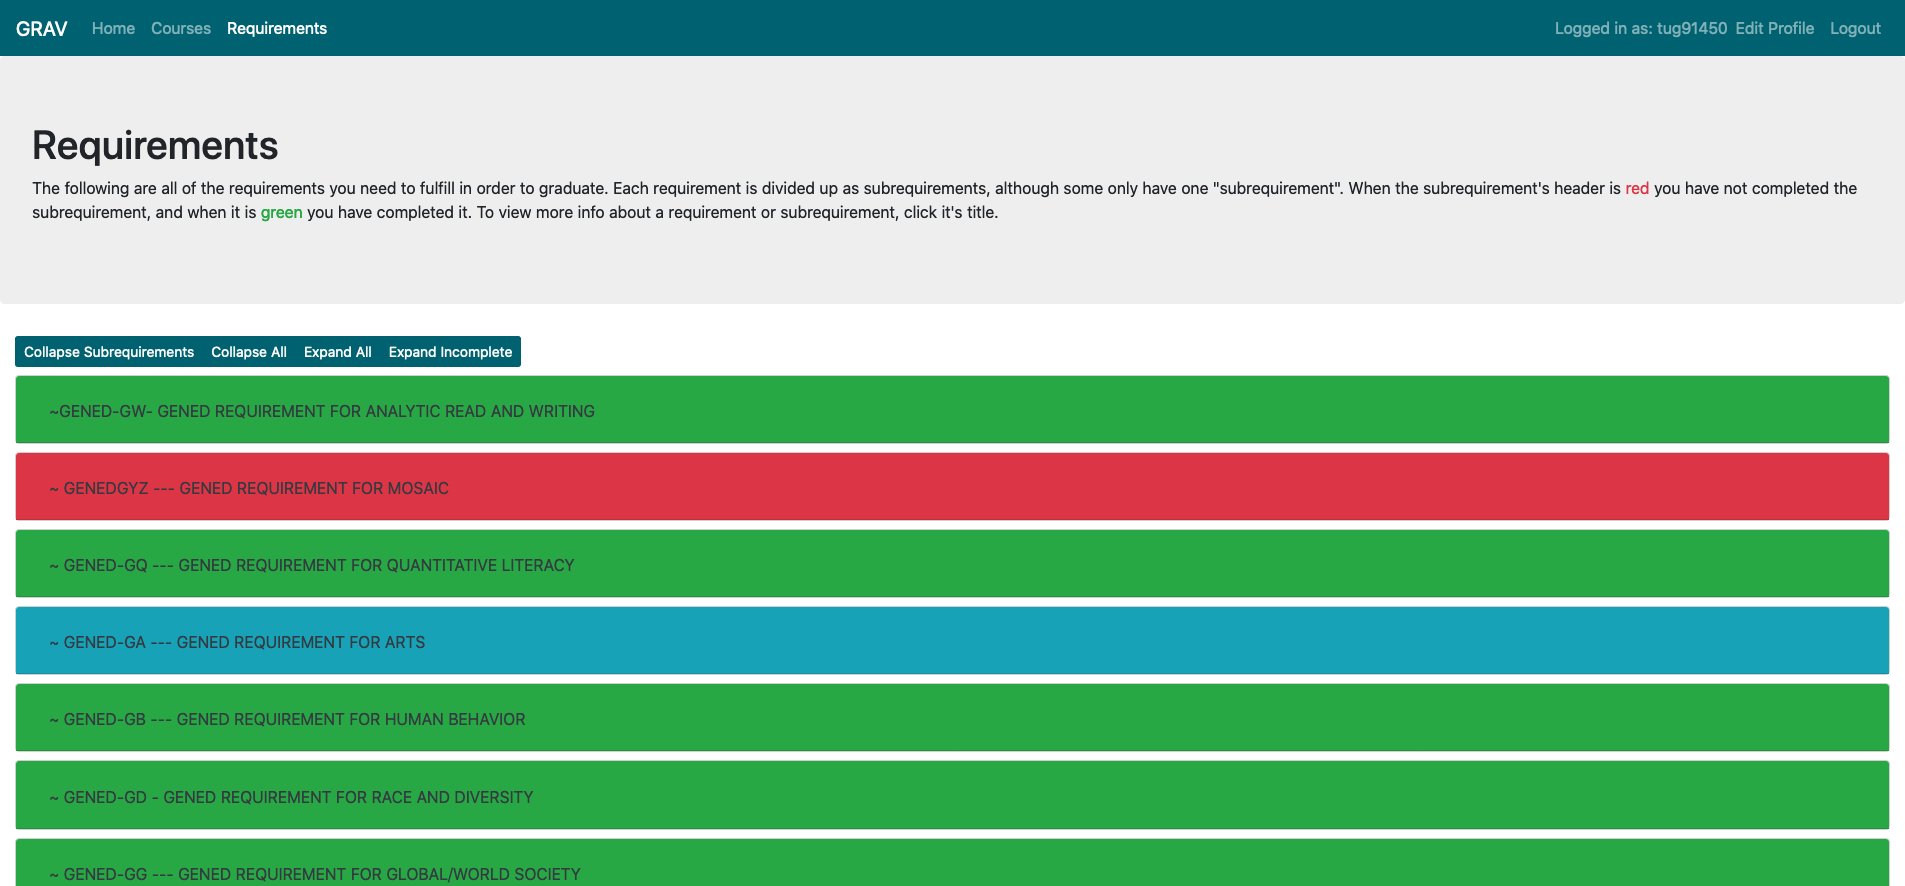
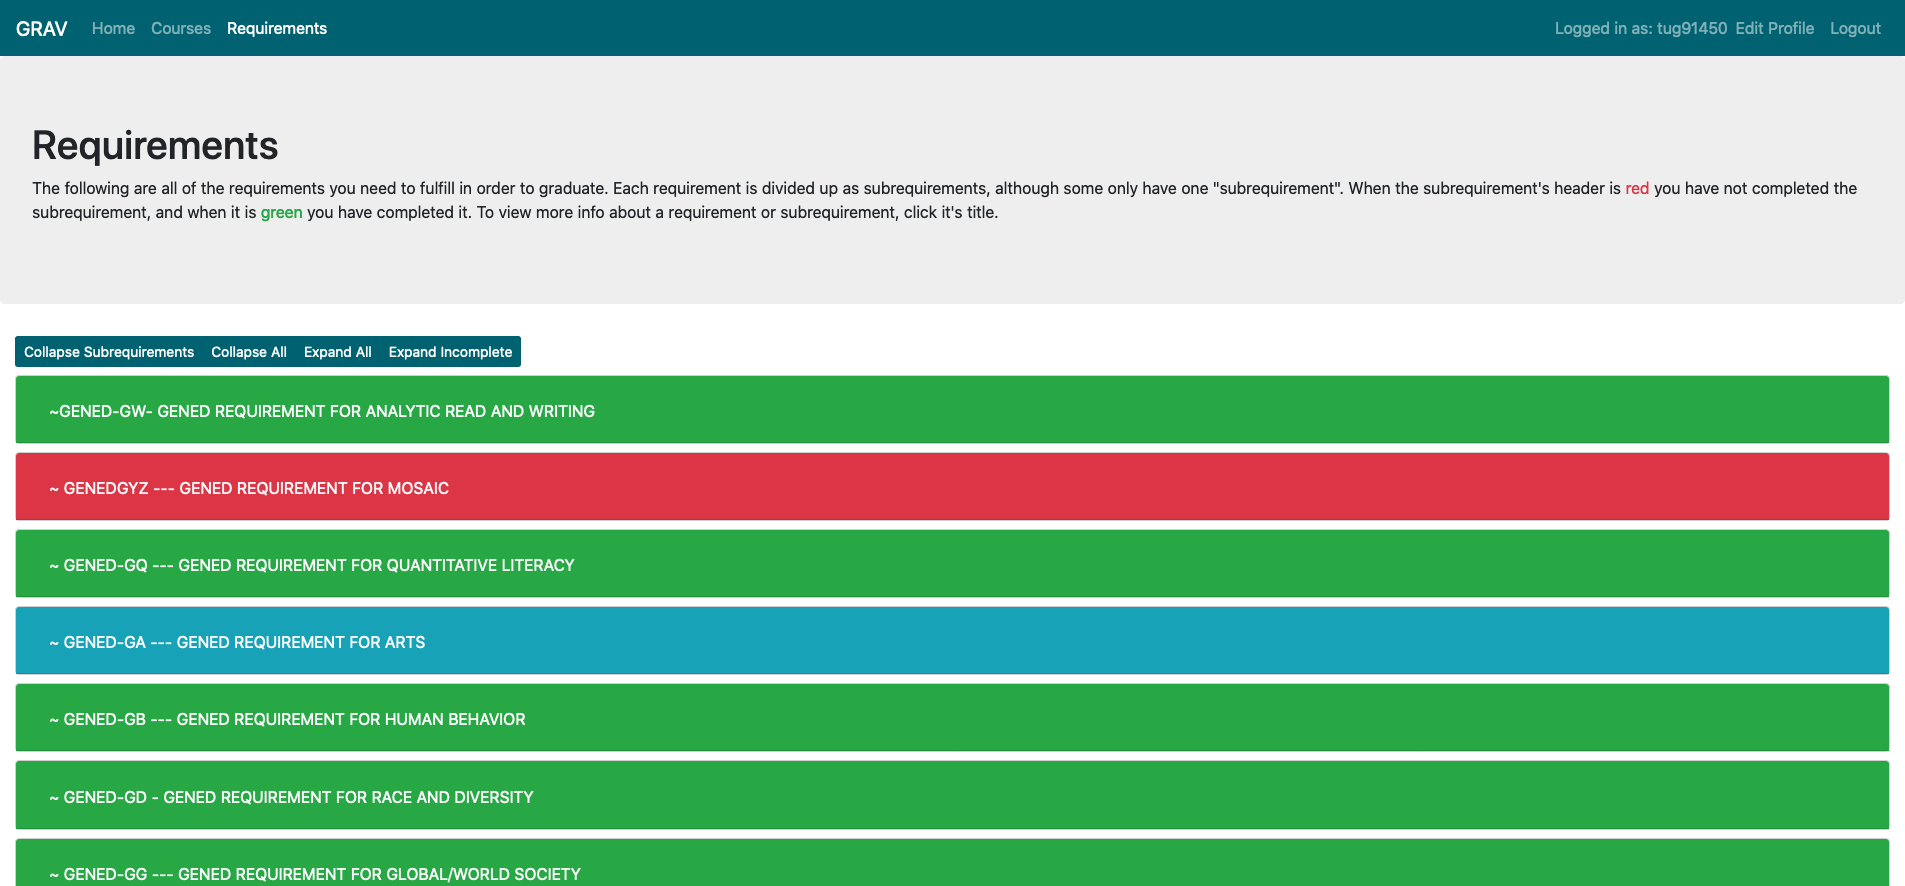
Fix text color for light requirements

diff --git a/frontend/src/pages/dashboard/requirements.js b/frontend/src/pages/dashboard/requirements.js
@@ -99,14 +99,13 @@ class RequirementComponent extends React.Component {
     render() {
         const id = "requirement_" + this.props.id;
         const headerId = "req_header_" + this.props.id;
-        const textColor = this.props.theme.dark ? "text-light" : "text-dark";
         const headerBg = "bg-" + getPrimaryFromStatus(this.props.data.Status);
 
         return <div className={"requirement my-2 " + normalizeStatus(this.props.data.Status)}>
             <ThemedCard>
                 <div className={["card-header", headerBg].join(" ")} id={headerId}>
                     <h2 className="mb-0">
-                        <button className={"btn btn-link " + textColor} type="button" data-toggle="collapse" data-target={"#" + id} aria-expanded="false" aria-controls={id}>
+                        <button className="btn btn-link text-light" type="button" data-toggle="collapse" data-target={"#" + id} aria-expanded="false" aria-controls={id}>
                             { this.props.data.Title }
                         </button>
                     </h2>
